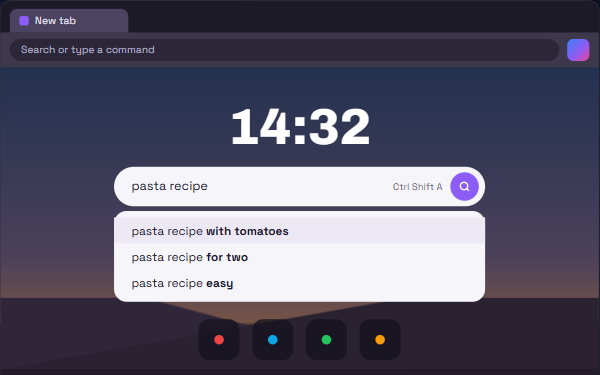
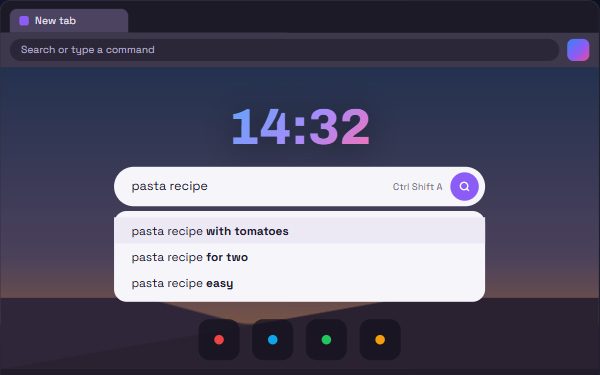
features page: 8 file(s) changed, 0 removed (2 board(s) redrawn)

Changed region(s): [[0.39, 0.2933, 0.63, 0.3813]]

diff --git a/features/themes/index.html b/features/themes/index.html
@@ -6,7 +6,7 @@
 <meta http-equiv="Content-Security-Policy" content="default-src 'none'; img-src 'self'; style-src 'self'; font-src 'self'; script-src 'self'; base-uri 'none'; form-action 'none'">
 <meta name="referrer" content="no-referrer">
 <title>Themes · Plebbium features</title>
-<meta name="description" content="Violet, or the same look in red: Pleb&#39;s pages and the browser&#39;s own tabs and toolbar.">
+<meta name="description" content="Violet or red, logo included: Pleb&#39;s pages, the browser&#39;s colours and its taskbar icon. One button puts it back.">
 <link rel="icon" href="../icon.svg" type="image/svg+xml">
 <link rel="stylesheet" href="../site.css">
 <script src="../site.js" defer></script>
@@ -19,19 +19,20 @@
 </header>
 <main id="main" class="wiki">
 <p class="crumbs"><a href="../">All features</a> › <a href="../#shipped">Shipped</a> › Themes</p>
-<div class="title"><h1>Themes</h1><span class="chip st">Stable</span><span class="since">since 3612</span></div>
-<p class="lead">Plebbium&#39;s look in violet, or the same look in red: Pleb&#39;s own pages and the browser&#39;s tabs and toolbar follow.</p>
+<div class="title"><h1>Themes</h1><span class="chip st">Stable</span><span class="chip be">New in Beta</span><span class="since">since 3612</span></div>
+<p class="lead">Plebbium&#39;s look in violet, or the same look in red with a red logo of its own: Pleb&#39;s pages, the browser&#39;s tabs and toolbar, and Plebbium&#39;s icon on the taskbar and in the Start menu all follow. Reset to default puts the theme and the new tab&#39;s background back as they came.</p>
 <div class="cols">
 <div class="main">
-<figure class="board"><img src="../boards/themes.png" width="1200" height="750" alt="Two Plebbium windows side by side, one violet and one red, the same layout in each.">
-<figcaption class="sr">What it does: Violet, or the same look in red. Pleb&#39;s pages and the browser&#39;s own colours change together. Chosen per PC.</figcaption></figure>
-<section class="sec" aria-labelledby="h-use"><h2 id="h-use">How to use it</h2><ol class="steps"><li><span>Plebbium settings › Appearance › Theme: Violet or Red.</span></li><li><span>Pages change at once; Search with Plebbium follows from the next start.</span></li></ol></section>
-<section class="sec" aria-labelledby="h-when"><h2 id="h-when">When it arrived</h2><ul class="tl"><li><p class="v"><b>156.0.8078.3612</b><span>22 Oct 2026 · Beta and Stable</span></p><p>The red theme, beside violet.</p></li></ul></section>
-<section class="sec" aria-labelledby="h-why"><h2 id="h-why">Why it works this way</h2><div class="why"><div><h3>One seed colour</h3><p>The browser derives its colours from one seed, so changing it recolours the tabs, toolbar and menus together.</p></div><div><h3>Colours that mean something stay</h3><p>Green for on, red for danger and the like keep their colours in both themes.</p></div></div></section>
+<figure class="board"><img src="../boards/themes.png" width="1200" height="750" alt="Two Plebbium windows side by side, one violet with the violet logo and one red with the red logo, each with its icon on a taskbar below.">
+<figcaption class="sr">What it does: Violet, or the same look in red. Red brings its own logo: the taskbar, the Start menu, the Pleb button. The new tab&#39;s clock wears the theme&#39;s colours, or plain white. Reset to default puts it all back.</figcaption></figure>
+<section class="sec" aria-labelledby="h-use"><h2 id="h-use">How to use it</h2><ol class="steps"><li><span>Plebbium settings › Appearance › Theme: Violet or Red.</span></li><li><span>The colours and the logo change at once, taskbar and shortcuts too; Search with Plebbium follows from the next start.</span></li><li><span>Appearance › White clock: the new tab&#39;s clock in plain white instead of the theme&#39;s colours.</span></li><li><span>Appearance › Reset to default, or Customize on the new tab: back to Violet, matching the system, no picture. It asks first.</span></li></ol></section>
+<section class="sec" aria-labelledby="h-when"><h2 id="h-when">When it arrived</h2><ul class="tl"><li><p class="v"><b>156.0.8078.3612</b><span>22 Oct 2026 · Beta and Stable</span></p><p>The red theme, beside violet.</p></li>
+<li><p class="v"><b>156.0.8078.3614</b><span>Beta 26 Oct 2026 · not on Stable yet</span></p><p>A red logo with the red theme, everywhere Plebbium shows its logo; the clock in the theme&#39;s colours on your picture, or White clock; Reset to default.</p></li></ul></section>
+<section class="sec" aria-labelledby="h-why"><h2 id="h-why">Why it works this way</h2><div class="why"><div><h3>One seed colour</h3><p>The browser derives its colours from one seed, so changing it recolours the tabs, toolbar and menus together.</p></div><div><h3>One logo per theme, both inside Plebbium</h3><p>Switching downloads nothing, and Windows is shown a different icon rather than a changed one, so the taskbar and Start menu don&#39;t keep the old one.</p></div><div><h3>Reset asks first</h3><p>Your picture is kept only on your PC, so once removed it can&#39;t be brought back: Reset says what it changes before it does.</p></div><div><h3>Colours that mean something stay</h3><p>Green for on, red for danger and the like keep their colours in both themes.</p></div></div></section>
 
 <nav class="pn" aria-label="More features"><a href="../search-with-plebbium/">‹ Search with Plebbium</a><a href="../split-view/">Split view ›</a></nav>
 </div>
-<aside class="glance" aria-labelledby="h-glance"><h2 id="h-glance">At a glance</h2><dl><div><dt>Status</dt><dd><span class="chip st">Stable</span></dd></div><div><dt>Arrived</dt><dd>156.0.8078.3612 · 22 Oct 2026</dd></div><div><dt>Where</dt><dd>Plebbium settings › Appearance</dd></div><div><dt>Works with</dt><dd><a href="../new-tab/">New tab</a> · <a href="../defaults/">Defaults</a></dd></div></dl></aside>
+<aside class="glance" aria-labelledby="h-glance"><h2 id="h-glance">At a glance</h2><dl><div><dt>Status</dt><dd><span class="chip st">Stable</span><span class="chip be">New in Beta</span></dd></div><div><dt>Arrived</dt><dd>156.0.8078.3612 · 22 Oct 2026</dd></div><div><dt>Where</dt><dd>Plebbium settings › Appearance</dd></div><div><dt>Works with</dt><dd><a href="../new-tab/">New tab</a> · <a href="../defaults/">Defaults</a></dd></div></dl></aside>
 </div>
 </main>
 <footer class="foot">

diff --git a/features/new-tab/index.html b/features/new-tab/index.html
@@ -19,20 +19,21 @@
 </header>
 <main id="main" class="wiki">
 <p class="crumbs"><a href="../">All features</a> › <a href="../#shipped">Shipped</a> › New tab</p>
-<div class="title"><h1>New tab</h1><span class="chip st">Stable</span><span class="since">since 3604</span></div>
+<div class="title"><h1>New tab</h1><span class="chip st">Stable</span><span class="chip be">New in Beta</span><span class="since">since 3604</span></div>
 <p class="lead">A calm new tab: a clock, one search box with predictions as you type and a search button, !bangs, your top sites, pick up where you left off, and a background picture of your own, dimmed to taste.</p>
 <div class="cols">
 <div class="main">
-<figure class="board"><img src="../boards/new-tab.png" width="1200" height="750" alt="The new tab over a dimmed picture: a white clock, a search box with predictions under it and a round search button, and a row of site shortcuts.">
-<figcaption class="sr">What it does: One search box, with predictions as you type (a switch turns them off). `!bangs` search a site directly. Your top sites, and pick up where you left off. A picture of your own, dimmed to taste.</figcaption></figure>
-<section class="sec" aria-labelledby="h-use"><h2 id="h-use">How to use it</h2><ol class="steps"><li><span>Search: type, then pick a prediction or press Enter or the search button.</span></li><li><span>Search a site directly: start with a <kbd>!bang</kbd>.</span></li><li><span>A background picture: Customize, bottom right › choose one from your computer, then set how dim it is.</span></li><li><span>Predictions off: Plebbium settings › New tab.</span></li></ol></section>
+<figure class="board"><img src="../boards/new-tab.png" width="1200" height="750" alt="The new tab over a dimmed picture: the clock in the theme&#39;s colours, a search box with predictions under it and a round search button, and a row of site shortcuts.">
+<figcaption class="sr">What it does: One search box, with predictions as you type (a switch turns them off). `!bangs` search a site directly. Your top sites, and pick up where you left off. A picture of your own, dimmed to taste, the clock in the theme&#39;s colours over it.</figcaption></figure>
+<section class="sec" aria-labelledby="h-use"><h2 id="h-use">How to use it</h2><ol class="steps"><li><span>Search: type, then pick a prediction or press Enter or the search button.</span></li><li><span>Search a site directly: start with a <kbd>!bang</kbd>.</span></li><li><span>A background picture: Customize, bottom right › choose one from your computer, then set how dim it is.</span></li><li><span>Predictions off: Plebbium settings › New tab.</span></li><li><span>A plain white clock: Plebbium settings › Appearance › White clock. Customize › Reset to default takes the picture away and goes back to Violet.</span></li></ol></section>
 <section class="sec" aria-labelledby="h-when"><h2 id="h-when">When it arrived</h2><ul class="tl"><li><p class="v"><b>156.0.8078.3604</b><span>18 Oct 2026 · Beta and Stable</span></p><p>The new tab.</p></li>
-<li><p class="v"><b>156.0.8078.3612</b><span>22 Oct 2026 · Beta and Stable</span></p><p>Search predictions, a search button and a background picture of your own.</p></li></ul></section>
+<li><p class="v"><b>156.0.8078.3612</b><span>22 Oct 2026 · Beta and Stable</span></p><p>Search predictions, a search button and a background picture of your own.</p></li>
+<li><p class="v"><b>156.0.8078.3614</b><span>Beta 26 Oct 2026 · not on Stable yet</span></p><p>The clock keeps the theme&#39;s colours on your picture; White clock for plain white; Reset to default in Customize.</p></li></ul></section>
 <section class="sec" aria-labelledby="h-why"><h2 id="h-why">Why it works this way</h2><div class="why"><div><h3>Predictions send only what you type</h3><p>The one thing on the new tab that uses the network: only the box&#39;s text goes, without cookies, and never an address, a bang or a question for an AI.</p></div><div><h3>Your picture, kept on your PC</h3><p>Only your own picture, never one fetched from the web; it is resized and kept on that PC.</p></div></div></section>
 
 <nav class="pn" aria-label="More features"><a href="../peek/">‹ Peek</a><a href="../ask-ai/">Ask ChatGPT / Claude ›</a></nav>
 </div>
-<aside class="glance" aria-labelledby="h-glance"><h2 id="h-glance">At a glance</h2><dl><div><dt>Status</dt><dd><span class="chip st">Stable</span></dd></div><div><dt>Arrived</dt><dd>156.0.8078.3604 · 18 Oct 2026</dd></div><div><dt>Where</dt><dd>Every new tab · Customize, bottom right</dd></div><div><dt>Works with</dt><dd><a href="../ask-ai/">Ask ChatGPT / Claude</a> · <a href="../themes/">Themes</a></dd></div></dl></aside>
+<aside class="glance" aria-labelledby="h-glance"><h2 id="h-glance">At a glance</h2><dl><div><dt>Status</dt><dd><span class="chip st">Stable</span><span class="chip be">New in Beta</span></dd></div><div><dt>Arrived</dt><dd>156.0.8078.3604 · 18 Oct 2026</dd></div><div><dt>Where</dt><dd>Every new tab · Customize, bottom right</dd></div><div><dt>Works with</dt><dd><a href="../ask-ai/">Ask ChatGPT / Claude</a> · <a href="../themes/">Themes</a></dd></div></dl></aside>
 </div>
 </main>
 <footer class="foot">

diff --git a/features/index.html b/features/index.html
@@ -21,7 +21,7 @@
 <section class="hero">
 <h1>Everything in Plebbium</h1>
 <p class="lead">A Chromium browser for Windows with Pleb's features built in. Each one is shown the way it looks; open it for how to use it, when it arrived and why it works the way it does.</p>
-<p class="vers"><span class="ver st">Stable 156.0.8078.3613</span><span class="ver be">Beta 156.0.8078.3613</span><span class="since">Updated 26 Oct 2026</span></p>
+<p class="vers"><span class="ver st">Stable 156.0.8078.3613</span><span class="ver be">Beta 156.0.8078.3614</span><span class="since">Updated 26 Oct 2026</span></p>
 <p class="find" hidden><label for="find">Find a feature</label><input id="find" type="search" placeholder="Find a feature" autocomplete="off"></p>
 </section>
 <section class="row" id="shipped" aria-labelledby="h-shipped">
@@ -59,7 +59,7 @@
 <li class="card" data-words="new tab a clock, search with predictions, your top sites and a picture of your own.">
 <a href="new-tab/"><img src="boards/new-tab-card.png" width="600" height="375" alt="" loading="lazy" decoding="async">
 <span class="cb"><span class="h">New tab</span><span class="p">A clock, search with predictions, your top sites and a picture of your own.</span>
-<span class="meta"><span class="chip st">Stable</span><span class="since">since 3604</span></span></span></a></li>
+<span class="meta"><span class="chip st">Stable</span><span class="chip be">New in Beta</span><span class="since">since 3604</span></span></span></a></li>
 <li class="card" data-words="ask chatgpt / claude type gpt or clau and a question, or right-click a selection to ask about it.">
 <a href="ask-ai/"><img src="boards/ask-ai-card.png" width="600" height="375" alt="" loading="lazy" decoding="async">
 <span class="cb"><span class="h">Ask ChatGPT / Claude</span><span class="p">Type gpt or clau and a question, or right-click a selection to ask about it.</span>
@@ -92,10 +92,10 @@
 <a href="search-with-plebbium/"><img src="boards/search-with-plebbium-card.png" width="600" height="375" alt="" loading="lazy" decoding="async">
 <span class="cb"><span class="h">Search with Plebbium</span><span class="p">Search from anywhere in Windows: a search box on the desktop, in Plebbium&#39;s look.</span>
 <span class="meta"><span class="chip st">Stable</span><span class="since">since 3604</span></span></span></a></li>
-<li class="card" data-words="themes violet, or the same look in red: pleb&#39;s pages and the browser&#39;s own tabs and toolbar.">
+<li class="card" data-words="themes violet or red, logo included: pleb&#39;s pages, the browser&#39;s colours and its taskbar icon. one button puts it back.">
 <a href="themes/"><img src="boards/themes-card.png" width="600" height="375" alt="" loading="lazy" decoding="async">
-<span class="cb"><span class="h">Themes</span><span class="p">Violet, or the same look in red: Pleb&#39;s pages and the browser&#39;s own tabs and toolbar.</span>
-<span class="meta"><span class="chip st">Stable</span><span class="since">since 3612</span></span></span></a></li>
+<span class="cb"><span class="h">Themes</span><span class="p">Violet or red, logo included: Pleb&#39;s pages, the browser&#39;s colours and its taskbar icon. One button puts it back.</span>
+<span class="meta"><span class="chip st">Stable</span><span class="chip be">New in Beta</span><span class="since">since 3612</span></span></span></a></li>
 <li class="card" data-words="split view two tabs side by side in one window, from the everything bar.">
 <a href="split-view/"><img src="boards/split-view-card.png" width="600" height="375" alt="" loading="lazy" decoding="async">
 <span class="cb"><span class="h">Split view</span><span class="p">Two tabs side by side in one window, from the Everything bar.</span>
